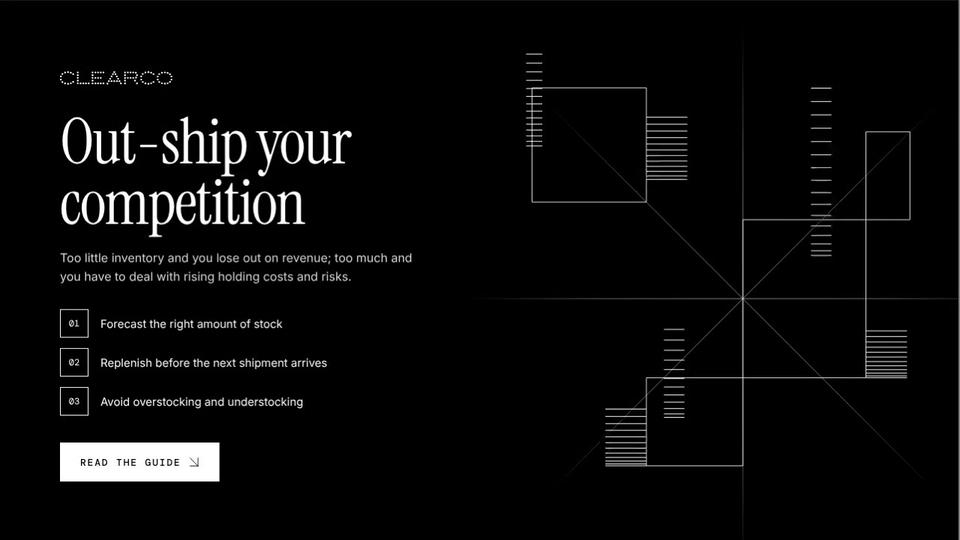
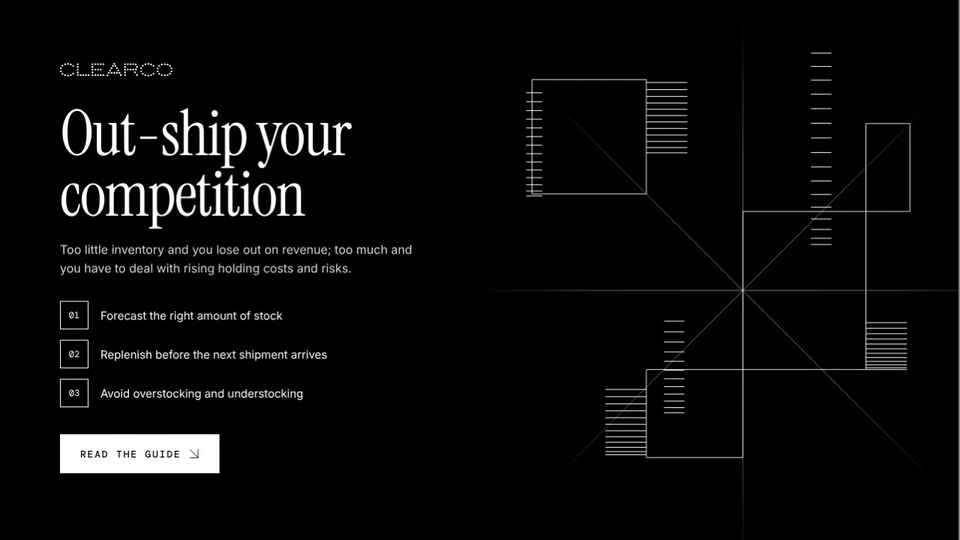
Clearco Logistics Guide: skinny hero stack sits lower with limited travel so it keeps clear of the top of the screen
Claude-Session: https://claude.ai/code/session_01AHeBdwjGFXBCupAH8deQwB

diff --git a/clearco-logistics-guide/index.html b/clearco-logistics-guide/index.html
@@ -224,7 +224,7 @@ footer .sign{margin-top:28px;color:#fff;font-size:14px}
     </ul>
     <a class="btn light" href="https://www.clear.co/blog/navigating-inventory-logistics-a-resource-for-founders">Read the guide <svg class="arr" viewBox="0 0 24 24" width="14" height="14" fill="none" stroke="currentColor" stroke-width="1.5" stroke-linecap="square" aria-hidden="true"><path d="M3 3 21 21M21 3v18M3 21h18"/></svg></a>
     </div>
-    <div class="vis"><svg viewBox="-40 -40 596 596" width="596" height="596" role="img" aria-label="Abstract linework: four outlined boxes meeting corner to corner and thin lines radiating from a centre point on black, with stacks of parallel white lines that float up and down"><defs><linearGradient id="r0" gradientUnits="userSpaceOnUse" x1="288" y1="288" x2="668.0" y2="288.0"><stop offset="0" stop-color="#fff" stop-opacity=".55"/><stop offset=".5" stop-color="#fff" stop-opacity=".45"/><stop offset="1" stop-color="#fff" stop-opacity="0"/></linearGradient><linearGradient id="r1" gradientUnits="userSpaceOnUse" x1="288" y1="288" x2="556.7" y2="556.7"><stop offset="0" stop-color="#fff" stop-opacity=".55"/><stop offset=".5" stop-color="#fff" stop-opacity=".45"/><stop offset="1" stop-color="#fff" stop-opacity="0"/></linearGradient><linearGradient id="r2" gradientUnits="userSpaceOnUse" x1="288" y1="288" x2="288.0" y2="668.0"><stop offset="0" stop-color="#fff" stop-opacity=".55"/><stop offset=".5" stop-color="#fff" stop-opacity=".45"/><stop offset="1" stop-color="#fff" stop-opacity="0"/></linearGradient><linearGradient id="r3" gradientUnits="userSpaceOnUse" x1="288" y1="288" x2="19.3" y2="556.7"><stop offset="0" stop-color="#fff" stop-opacity=".55"/><stop offset=".5" stop-color="#fff" stop-opacity=".45"/><stop offset="1" stop-color="#fff" stop-opacity="0"/></linearGradient><linearGradient id="r4" gradientUnits="userSpaceOnUse" x1="288" y1="288" x2="-92.0" y2="288.0"><stop offset="0" stop-color="#fff" stop-opacity=".55"/><stop offset=".5" stop-color="#fff" stop-opacity=".45"/><stop offset="1" stop-color="#fff" stop-opacity="0"/></linearGradient><linearGradient id="r5" gradientUnits="userSpaceOnUse" x1="288" y1="288" x2="19.3" y2="19.3"><stop offset="0" stop-color="#fff" stop-opacity=".55"/><stop offset=".5" stop-color="#fff" stop-opacity=".45"/><stop offset="1" stop-color="#fff" stop-opacity="0"/></linearGradient><linearGradient id="r6" gradientUnits="userSpaceOnUse" x1="288" y1="288" x2="288.0" y2="-92.0"><stop offset="0" stop-color="#fff" stop-opacity=".55"/><stop offset=".5" stop-color="#fff" stop-opacity=".45"/><stop offset="1" stop-color="#fff" stop-opacity="0"/></linearGradient><linearGradient id="r7" gradientUnits="userSpaceOnUse" x1="288" y1="288" x2="556.7" y2="19.3"><stop offset="0" stop-color="#fff" stop-opacity=".55"/><stop offset=".5" stop-color="#fff" stop-opacity=".45"/><stop offset="1" stop-color="#fff" stop-opacity="0"/></linearGradient></defs><g fill="none" stroke="#fff" stroke-width="1" vector-effect="non-scaling-stroke"><g class="ray"><line x1="288" y1="288" x2="668.0" y2="288.0" stroke="url(#r0)"/><line x1="288" y1="288" x2="556.7" y2="556.7" stroke="url(#r1)"/><line x1="288" y1="288" x2="288.0" y2="668.0" stroke="url(#r2)"/><line x1="288" y1="288" x2="19.3" y2="556.7" stroke="url(#r3)"/><line x1="288" y1="288" x2="-92.0" y2="288.0" stroke="url(#r4)"/><line x1="288" y1="288" x2="19.3" y2="19.3" stroke="url(#r5)"/><line x1="288" y1="288" x2="288.0" y2="-92.0" stroke="url(#r6)"/><line x1="288" y1="288" x2="556.7" y2="19.3" stroke="url(#r7)"/></g><g class="blk" opacity=".9"><rect x="0" y="0" width="156" height="156"/><rect x="288" y="180" width="168" height="216"/><rect x="456" y="60" width="60" height="120"/><rect x="156" y="396" width="132" height="120"/></g></g><g stroke="#fff" stroke-width="1"><g class="st" data-x="156" data-y="116" data-h="80" data-w="56" data-start="0.2"></g><g class="st" data-x="100" data-y="484" data-h="64" data-w="56" data-start="1.4"></g><g class="st" data-x="456" data-y="364" data-h="64" data-w="56" data-start="2.6"></g><g class="st" data-x="381" data-y="133" data-h="194" data-w="28" data-n="16" data-start="0.9"></g><g class="st" data-x="180" data-y="390" data-h="120" data-w="28" data-n="12" data-start="2.1"></g><g class="st" data-x="-8" data-y="14" data-h="120" data-w="22" data-n="14" data-start="1.7"></g></g></svg></div>
+    <div class="vis"><svg viewBox="-40 -40 596 596" width="596" height="596" role="img" aria-label="Abstract linework: four outlined boxes meeting corner to corner and thin lines radiating from a centre point on black, with stacks of parallel white lines that float up and down"><defs><linearGradient id="r0" gradientUnits="userSpaceOnUse" x1="288" y1="288" x2="668.0" y2="288.0"><stop offset="0" stop-color="#fff" stop-opacity=".55"/><stop offset=".5" stop-color="#fff" stop-opacity=".45"/><stop offset="1" stop-color="#fff" stop-opacity="0"/></linearGradient><linearGradient id="r1" gradientUnits="userSpaceOnUse" x1="288" y1="288" x2="556.7" y2="556.7"><stop offset="0" stop-color="#fff" stop-opacity=".55"/><stop offset=".5" stop-color="#fff" stop-opacity=".45"/><stop offset="1" stop-color="#fff" stop-opacity="0"/></linearGradient><linearGradient id="r2" gradientUnits="userSpaceOnUse" x1="288" y1="288" x2="288.0" y2="668.0"><stop offset="0" stop-color="#fff" stop-opacity=".55"/><stop offset=".5" stop-color="#fff" stop-opacity=".45"/><stop offset="1" stop-color="#fff" stop-opacity="0"/></linearGradient><linearGradient id="r3" gradientUnits="userSpaceOnUse" x1="288" y1="288" x2="19.3" y2="556.7"><stop offset="0" stop-color="#fff" stop-opacity=".55"/><stop offset=".5" stop-color="#fff" stop-opacity=".45"/><stop offset="1" stop-color="#fff" stop-opacity="0"/></linearGradient><linearGradient id="r4" gradientUnits="userSpaceOnUse" x1="288" y1="288" x2="-92.0" y2="288.0"><stop offset="0" stop-color="#fff" stop-opacity=".55"/><stop offset=".5" stop-color="#fff" stop-opacity=".45"/><stop offset="1" stop-color="#fff" stop-opacity="0"/></linearGradient><linearGradient id="r5" gradientUnits="userSpaceOnUse" x1="288" y1="288" x2="19.3" y2="19.3"><stop offset="0" stop-color="#fff" stop-opacity=".55"/><stop offset=".5" stop-color="#fff" stop-opacity=".45"/><stop offset="1" stop-color="#fff" stop-opacity="0"/></linearGradient><linearGradient id="r6" gradientUnits="userSpaceOnUse" x1="288" y1="288" x2="288.0" y2="-92.0"><stop offset="0" stop-color="#fff" stop-opacity=".55"/><stop offset=".5" stop-color="#fff" stop-opacity=".45"/><stop offset="1" stop-color="#fff" stop-opacity="0"/></linearGradient><linearGradient id="r7" gradientUnits="userSpaceOnUse" x1="288" y1="288" x2="556.7" y2="19.3"><stop offset="0" stop-color="#fff" stop-opacity=".55"/><stop offset=".5" stop-color="#fff" stop-opacity=".45"/><stop offset="1" stop-color="#fff" stop-opacity="0"/></linearGradient></defs><g fill="none" stroke="#fff" stroke-width="1" vector-effect="non-scaling-stroke"><g class="ray"><line x1="288" y1="288" x2="668.0" y2="288.0" stroke="url(#r0)"/><line x1="288" y1="288" x2="556.7" y2="556.7" stroke="url(#r1)"/><line x1="288" y1="288" x2="288.0" y2="668.0" stroke="url(#r2)"/><line x1="288" y1="288" x2="19.3" y2="556.7" stroke="url(#r3)"/><line x1="288" y1="288" x2="-92.0" y2="288.0" stroke="url(#r4)"/><line x1="288" y1="288" x2="19.3" y2="19.3" stroke="url(#r5)"/><line x1="288" y1="288" x2="288.0" y2="-92.0" stroke="url(#r6)"/><line x1="288" y1="288" x2="556.7" y2="19.3" stroke="url(#r7)"/></g><g class="blk" opacity=".9"><rect x="0" y="0" width="156" height="156"/><rect x="288" y="180" width="168" height="216"/><rect x="456" y="60" width="60" height="120"/><rect x="156" y="396" width="132" height="120"/></g></g><g stroke="#fff" stroke-width="1"><g class="st" data-x="156" data-y="116" data-h="80" data-w="56" data-start="0.2"></g><g class="st" data-x="100" data-y="484" data-h="64" data-w="56" data-start="1.4"></g><g class="st" data-x="456" data-y="364" data-h="64" data-w="56" data-start="2.6"></g><g class="st" data-x="381" data-y="133" data-h="194" data-w="28" data-n="16" data-start="0.9"></g><g class="st" data-x="180" data-y="390" data-h="120" data-w="28" data-n="12" data-start="2.1"></g><g class="st" data-x="-8" data-y="78" data-h="120" data-w="22" data-n="14" data-range="1" data-start="1.7"></g></g></svg></div>
   </div>
 </header>
 
@@ -654,7 +654,7 @@ footer .sign{margin-top:28px;color:#fff;font-size:14px}
     if (!svgEl) return;
     var N = 12, STEP = 36, RANGE = 2, NS = 'http://www.w3.org/2000/svg';
     var stacks = [].map.call(svgEl.querySelectorAll('.st'), function(g){
-      var d = g.dataset, st = { x: +d.x, y: +d.y, base: +d.y, h: +d.h, w: +d.w, n: +d.n || N, mv: null, next: performance.now() + (+d.start) * 1000, lines: [] };
+      var d = g.dataset, st = { x: +d.x, y: +d.y, base: +d.y, h: +d.h, w: +d.w, n: +d.n || N, range: +d.range || RANGE, mv: null, next: performance.now() + (+d.start) * 1000, lines: [] };
       for (var k = 0; k < st.n; k++) {
         var l = document.createElementNS(NS, 'line');
         l.setAttribute('x1', st.x); l.setAttribute('x2', st.x + st.w); g.appendChild(l); st.lines.push(l);
@@ -678,9 +678,9 @@ footer .sign{margin-top:28px;color:#fff;font-size:14px}
         return;
       }
       if (now < st.next) return;
-      var ups = st.y - STEP >= st.base - RANGE * STEP, downs = st.y + STEP <= st.base + RANGE * STEP;
+      var ups = st.y - STEP >= st.base - st.range * STEP, downs = st.y + STEP <= st.base + st.range * STEP;
       var dir = ups && downs ? (Math.random() < .5 ? -1 : 1) : (ups ? -1 : 1);
-      var room = dir < 0 ? Math.floor((st.y - (st.base - RANGE * STEP)) / STEP) : Math.floor(((st.base + RANGE * STEP) - st.y) / STEP);
+      var room = dir < 0 ? Math.floor((st.y - (st.base - st.range * STEP)) / STEP) : Math.floor(((st.base + st.range * STEP) - st.y) / STEP);
       var dist = Math.min(room, Math.random() < .5 ? 1 : 2);
       st.mv = { t0: now, dur: 1500 + dist * 650, y0: st.y, y1: st.y + dir * dist * STEP, dir: dir };
     }
